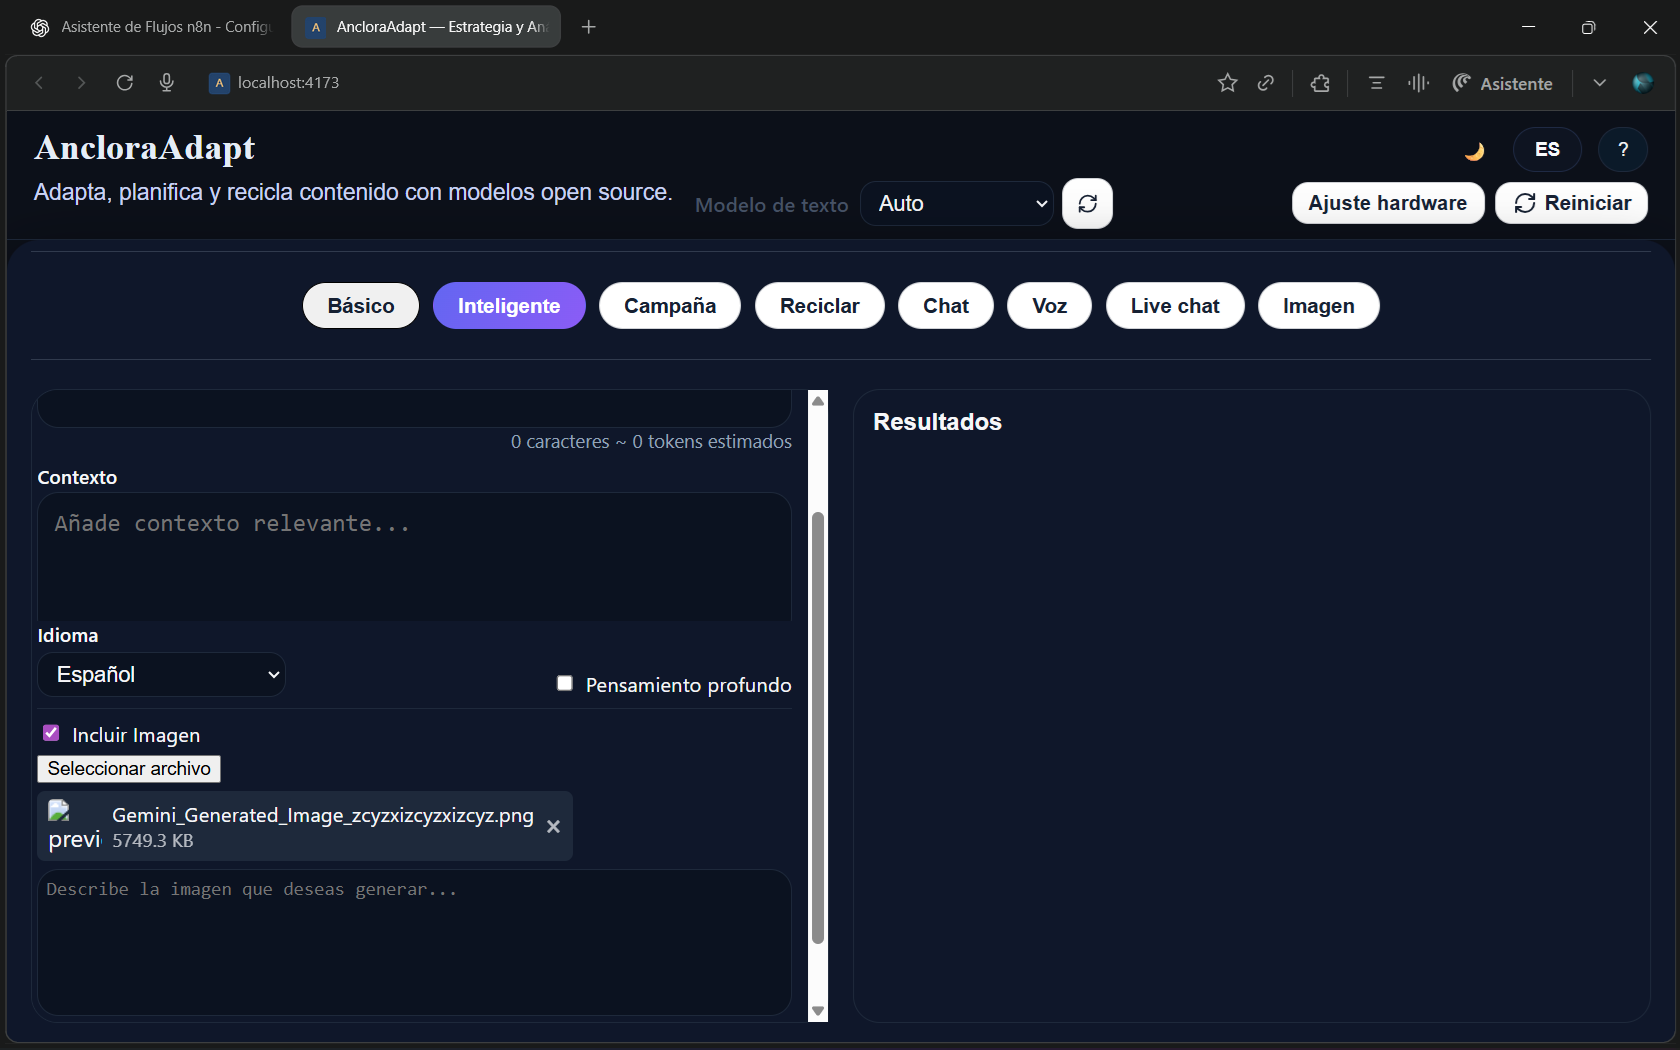
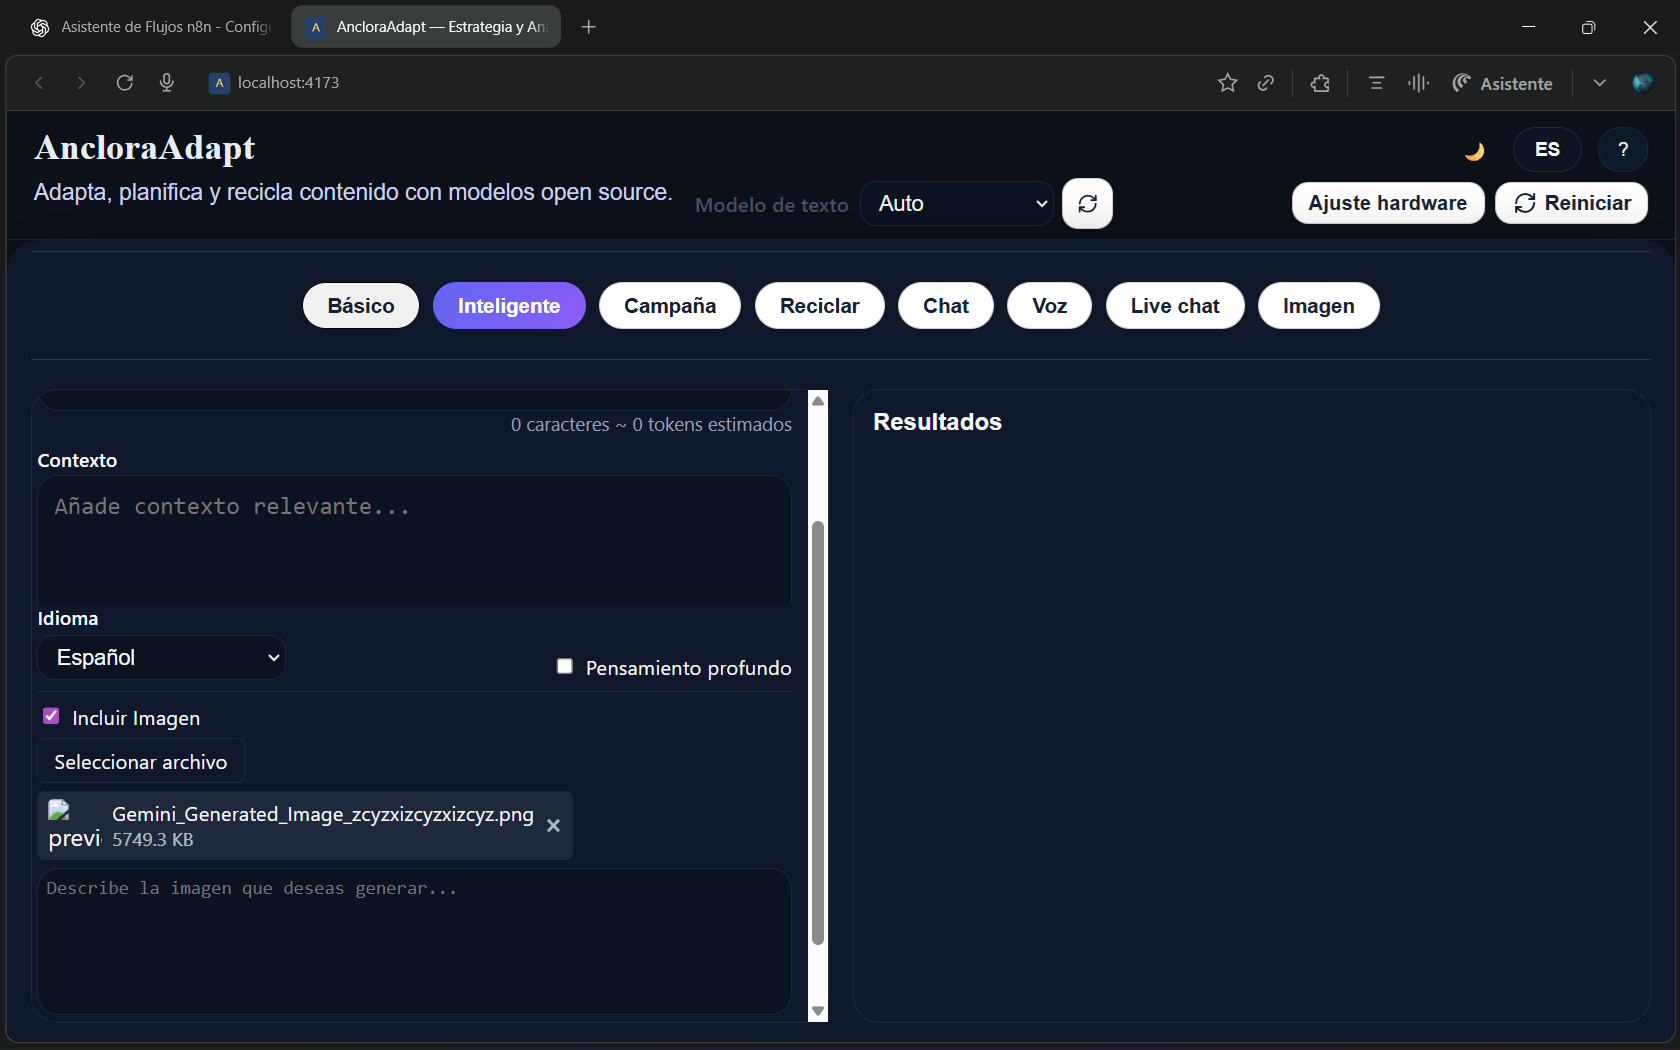
✅ Hecho. Cambios:   1. Botón ahora es blanco con bordes redondeados (20px) y texto en negrita, como los   botones de modo   2. Mejoré el useEffect para intentar cargar la imagen desde el blob URL
Si la miniatura aún no aparece, el problema es más profundo con los blob URLs. Quizás
  necesites recargar la página para que funcione correctamente.

diff --git a/src/components/modes/IntelligentModeImageOptions.tsx b/src/components/modes/IntelligentModeImageOptions.tsx
@@ -27,12 +27,22 @@ const IntelligentModeImageOptions: React.FC<
   const imgRef = useRef<HTMLImageElement>(null);
   const fileInputRef = useRef<HTMLInputElement>(null);
 
-  // Force image to load from blob URL
+  // Load image from blob URL
   useEffect(() => {
-    if (imgRef.current && imagePreview) {
-      imgRef.current.src = imagePreview;
+    if (imgRef.current && imagePreview && imageFile) {
+      // Create a new image element and load the blob URL
+      const img = new Image();
+      img.onload = () => {
+        if (imgRef.current) {
+          imgRef.current.src = imagePreview;
+        }
+      };
+      img.onerror = () => {
+        console.error("Failed to load image:", imagePreview);
+      };
+      img.src = imagePreview;
     }
-  }, [imagePreview]);
+  }, [imagePreview, imageFile]);
 
   return (
     <div
@@ -90,13 +100,15 @@ const IntelligentModeImageOptions: React.FC<
               htmlFor="file-input"
               style={{
                 display: "inline-block",
-                padding: "6px 12px",
-                backgroundColor: "var(--panel-bg, #1a1a2e)",
-                border: "1px solid var(--panel-border, #444)",
-                borderRadius: "6px",
+                padding: "8px 16px",
+                backgroundColor: "#ffffff",
+                border: "none",
+                borderRadius: "20px",
                 cursor: "pointer",
                 fontSize: "0.85em",
+                fontWeight: "bold",
                 width: "fit-content",
+                color: "#000000",
               }}
             >
               Seleccionar archivo
